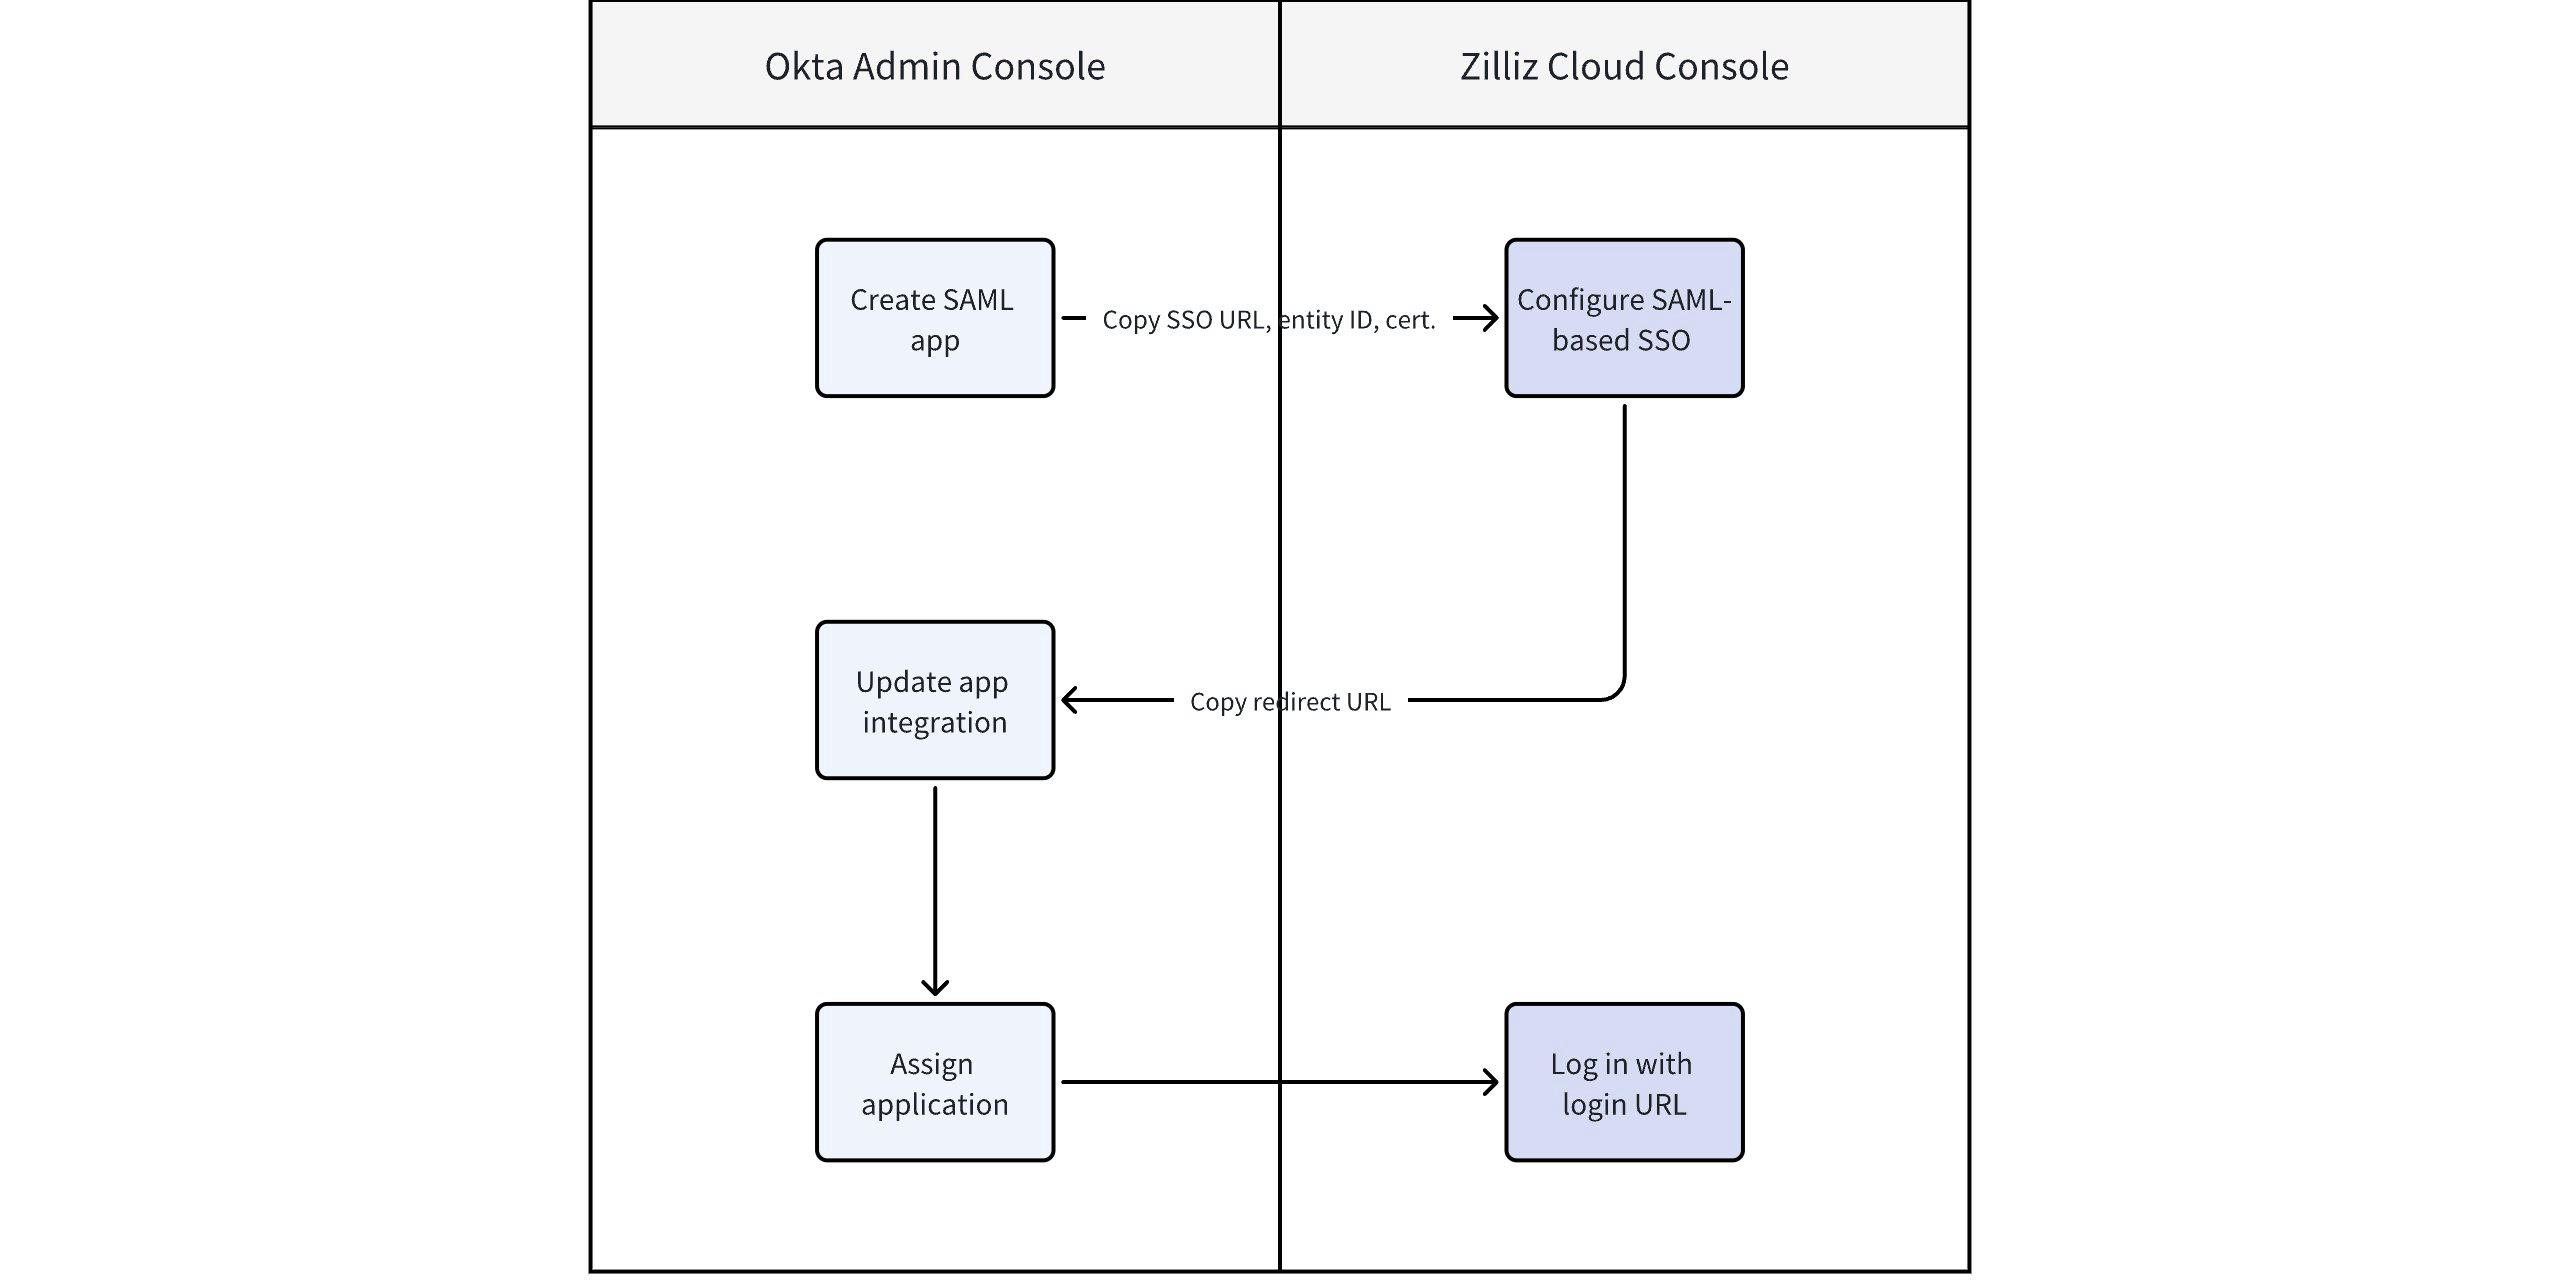
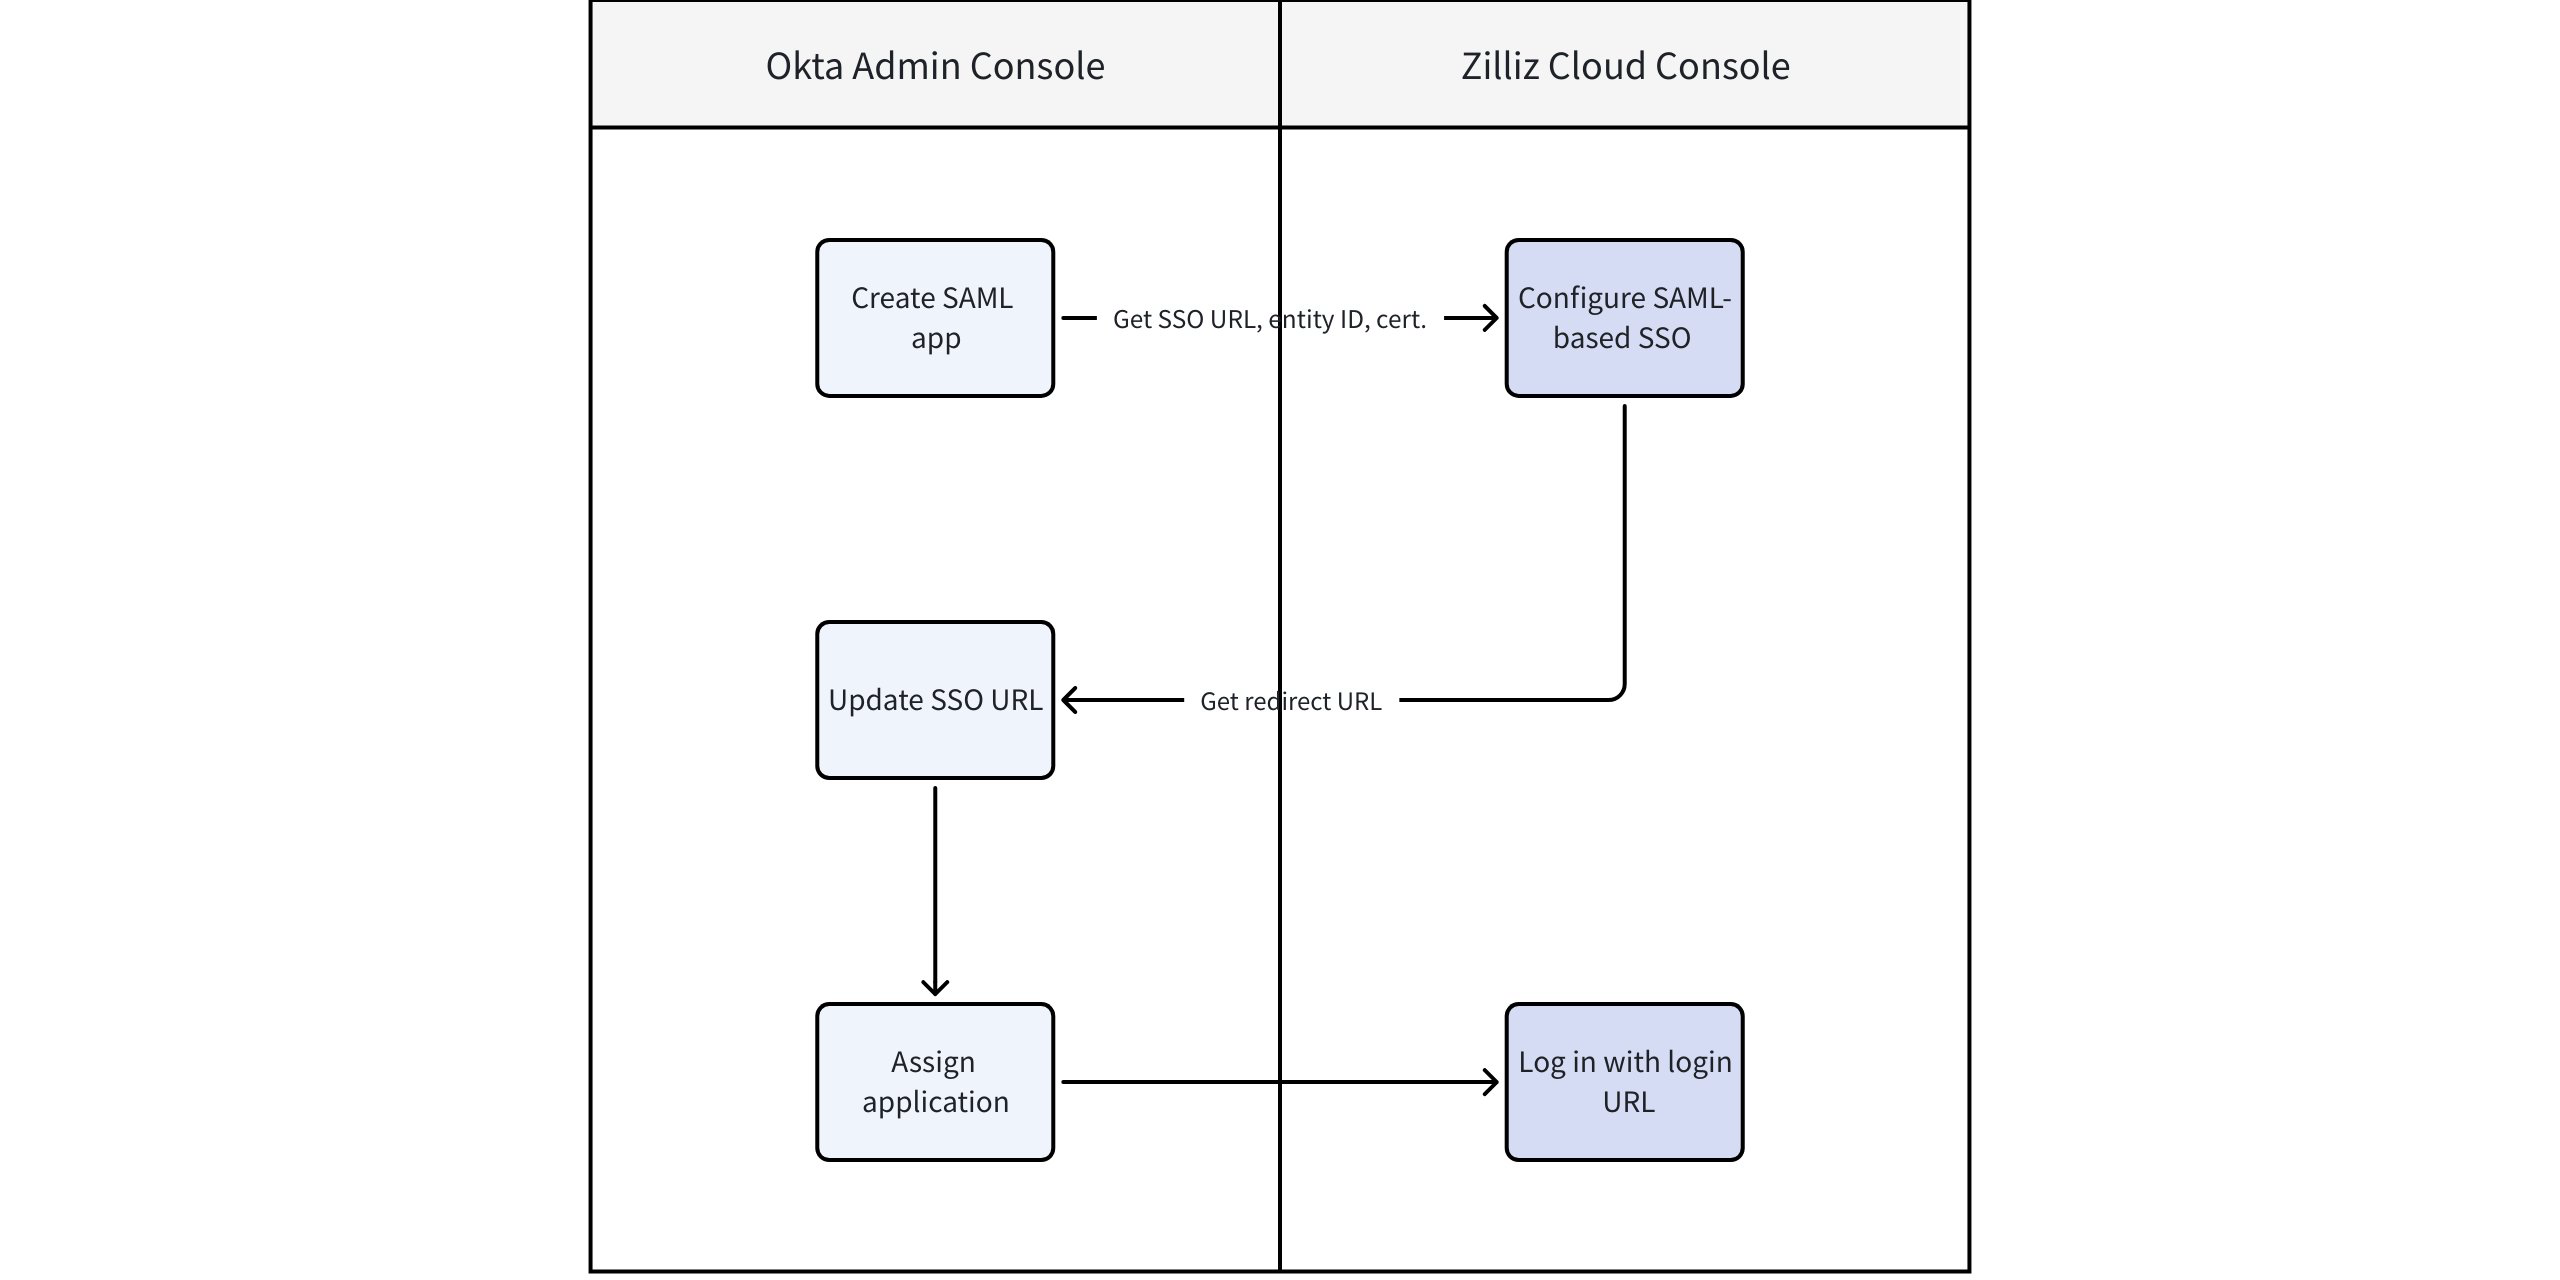
update docs

diff --git a/docs/tutorials/security/authentication/single-sign-on/saml-2-0/single-sign-on-with-okta.md b/docs/tutorials/security/authentication/single-sign-on/saml-2-0/single-sign-on-with-okta.md
@@ -14,15 +14,17 @@ keywords:
   - cloud
   - sso
   - okta
-  - LLMs
-  - Machine Learning
-  - RAG
-  - NLP
+  - vector search algorithms
+  - Question answering system
+  - llm-as-a-judge
+  - hybrid vector search
 
 ---
 
 import Admonition from '@theme/Admonition';
 
+
+import Supademo from '@site/src/components/Supademo';
 
 # Okta
 
@@ -44,7 +46,11 @@ Before you begin the SSO configuration, make sure the following conditions are m
 
 - You have Admin access to the Okta console. For more information, refer to [Okta official documentation](https://help.okta.com/en-us/content/topics/security/administrators-learn-about-admins.htm).
 
-## Step 1: Create SAML app integration in Okta{#step-1-create-saml-app-integration-in-okta}
+## Configuration steps{#configuration-steps}
+
+### Step 1: Create a SAML app in Okta console{#step-1-create-a-saml-app-in-okta-console}
+
+<Supademo id="cmdh3bndv2ym06n9n9gx8epyd" title="Step 1: Create SAML App in Okta Console" />
 
 1. Log in to the [Okta Admin console](https://login.okta.com/).
 
@@ -54,25 +60,37 @@ Before you begin the SSO configuration, make sure the following conditions are m
 
 1. In the **Create a new app integration** dialog box, select **SAML 2.0** and click **Next**.
 
-1. Set a custom app name and click **Next**.
+1. For simplicity, set **App name** to **zilliz**, then click **Next**.
 
-1. In the **Configure SAML** step, you'll need to provide some information.
+1. In the **General** area of the **Configure SAML** step, configure the fields below:
 
-    - **Single Sign On URL**: **https://cloud.zilliz.com/sso/saml/acs** (For now, use a placeholder value. You'll update this later.)
+    - **Single Sign On URL**: 
 
-    - **Audience Restriction**: Set the value to **zilliz**.
+        - Enter a temporary placeholder URL, such as `http://www.okta.com`. You will replace this with the actual URL from the Zilliz Cloud console later in [Step 2](./single-sign-on-with-okta#step-2-configure-okta-settings-in-zilliz-cloud-console).
 
-1. Click **Next**, review your settings, then click **Finish**. You will be redirected to the application page.
+        - Be sure to **check the box** labeled **"Use this for Recipient URL and Destination URL"** to ensure correct routing during SAML requests.
 
-    ![sso-2-1](/img/sso-2-1.png)
+    - **Audience URI (SP Entity ID)**: Set the value to **zilliz**.
 
-1. In the **SAML 2.0** card of the **Sign On** tab, click **More details**. Then, copy the following credentials and certificate: **Sign on URL**, **Issuer**, and **Signing Certificate**. This will be required for setting up your IdP in the Zilliz Cloud console.
+1. In the **Attribute Statements (optional)** area, specify:
 
-    For more information about Okta settings, refer to [Okta official documentation](https://help.okta.com/en-us/content/topics/apps/apps_app_integration_wizard_saml.htm).
+    - **Name**: Set the value to **email**.
 
-    ![sso-2-2](/img/sso-2-2.png)
+    - **Value**: Select **user.email** from the drop-down list.
 
-## Step 2: Configure SAML SSO on Zilliz Cloud{#step-2-configure-saml-sso-on-zilliz-cloud}
+1. Click **Next**, then click **Finish**. You will be redirected to the app page.
+
+1. On the **Sign On** tab of the app page, click **More details** to get the following app details:
+
+    - **Sign on URL**: Copy the URL. It will be required in Zilliz Cloud console in [Step 2](./single-sign-on-with-okta#step-2-configure-okta-settings-in-zilliz-cloud-console).
+
+    - **Signing Certificate**: Click **Download** to save the certificate to your local computer. It will be required in Zilliz Cloud console in [Step 2](./single-sign-on-with-okta#step-2-configure-okta-settings-in-zilliz-cloud-console).
+
+Then, proceed to [Step 2](./single-sign-on-with-okta#step-2-configure-okta-settings-in-zilliz-cloud-console) to continue SSO settings in Zilliz Cloud console.
+
+### Step 2: Configure Okta settings in Zilliz Cloud console{#step-2-configure-okta-settings-in-zilliz-cloud-console}
+
+<Supademo id="cmdh2wk6b2y8q6n9nilbi2d19" title="Step 2: Configure Okta Settings in Zilliz Cloud Console" />
 
 1. Log in to the [Zilliz Cloud console](https://cloud.zilliz.com/login) and go to the organization for which you want to configure SSO.
 
@@ -80,74 +98,100 @@ Before you begin the SSO configuration, make sure the following conditions are m
 
 1. On the **Settings** page, find the **Single Sign-On (SSO)** section and click **Configure**.
 
-1. In the **Configure Single Sign-On (SSO)** dialog, you will see two options - **SAML 2.0** and **Okta Workforce**. For this guide, select **SAML 2.0** to proceed with the SAML 2.0 integration.
+1. In the **Single Sign-On (SSO)** dialog box, select **SAML 2.0**, then configure the settings below:
 
-1. In the **Configure Single Sign-On (SSO)** step, enter the IdP settings using the credentials and certificate obtained from Okta in [Step 1](./single-sign-on-with-okta).
+    - **Single Sign-On URL**: Paste the **Sign on URL** value copied from [Okta console](https://login.okta.com/) in [Step 1](./single-sign-on-with-okta#step-1-create-a-saml-app-in-okta-console). This URL receives the SAML authentication requests from Okta.
 
-    - **Single Sign-On URL**: Paste the **Sign on URL** value obtained from Okta into this field. This URL receives the SAML authentication requests from Okta.
+    - **Entity ID**: Set the value to **zilliz**.
 
-    - **Entity ID**: Paste the **Issuer** value obtained from Okta into this field. This identifier is used to distinguish the issuer of SAML requests, responses, or assertions,  ensuring that messages from Okta are correctly recognized and accepted by Zilliz Cloud.
+    - **Certificate**: Open the certificate file downloaded in [Step 1](./single-sign-on-with-okta#step-1-create-a-saml-app-in-okta-console) on your computer. Copy the entire certificate content, including the lines beginning with `-----BEGIN CERTIFICATE-----` and ending with `-----END CERTIFICATE-----`, and paste it into the field provided.
 
-    - **Certificate**: Paste the **Signing Certificate** value obtained from Okta into this field. This public key certificate is used to verify the digital signatures of SAML assertions, enabling Zilliz Cloud to authenticate the source of the SAML data securely.
+1. Click **Save**.
 
-1. Click **Save** to proceed.
+1. In the dialog box that appears, copy the redirect URL. It will be required in [Okta console](https://login.okta.com/) in [Step 3](./single-sign-on-with-okta#step-3-update-sso-url-in-okta-console). You will also see a Zilliz Cloud login URL, which will be used for SSO login once all setup settings are complete.
 
-![sso-saml-1](/img/sso-saml-1.png)
+### Step 3: Update SSO URL in Okta console{#step-3-update-sso-url-in-okta-console}
 
-## Step 3: Update Okta app integration{#step-3-update-okta-app-integration}
+<Supademo id="cmdh69qhu32886n9niy61fz4y" title="Step 3: Update SSO URL in Okta Console" />
 
-After saving the Okta integration details on Zilliz Cloud, you'll be provided with a redirect URL:
+After saving the Okta app details in Zilliz Cloud, you are provided with a redirect URL:
 
-1. Copy the provided redirect URL from the Zilliz Cloud console.
+1. Return to the [Okta console](https://login.okta.com/) and navigate to the SAML app you created.
 
-1. Return to the Okta Admin console and navigate to the Zilliz Cloud application you created.
+1. Update the SAML settings by replacing the placeholder **Single Sign On URL** (set in [Step 1](./single-sign-on-with-okta#step-1-create-a-saml-app-in-okta-console)) with the redirect URL you copied from Zilliz Cloud.
 
-1. Edit the SAML settings and update the following fields with the redirect URL you copied from Zilliz Cloud: 
+1. Save the changes.
 
-    - **Single Sign On URL**
+## Post-configuration tasks{#post-configuration-tasks}
 
-    - **Destination URL**
+### Task 1: Assign SAML app to users (Okta console){#task-1-assign-saml-app-to-users-okta-console}
 
-1. Save the changes in the Okta Admin Console.
-
-1. Go back to the Zilliz Cloud console and confirm that you've added the redirect URL in Okta.
-
-You will also see a Zilliz Cloud login URL. Save this URL as it will be used for SSO login once the setup is complete.
-
-![sso-3](/img/sso-3.png)
-
-## Step 4: Assign Okta application to users{#step-4-assign-okta-application-to-users}
+<Supademo id="cmdh6fi1g32hv6n9nea0dz3e4" title="Step 4: Assign SAML App to Users" />
 
 Before users can access Zilliz Cloud through SSO, you need to assign the Okta application to them:
 
-1. In the [Okta Admin console](https://login.okta.com/), go to **Directory** > **People**.
+1. In the [Okta Admin console](https://login.okta.com/), click **Assignments**.
 
-1. Select a user and go to the **Applications** tab.
+1. Choose **Assign** > **Assign to People**.
 
-1. Click **Assign Applications** and find the Zilliz Cloud application.
+1. Assign the SAML app to the user and save the changes.
 
-1. Assign the application to the user and save the changes.
+1. Click **Save** and **Go Back**.
 
-Repeat this process for all users who need SSO access to Zilliz Cloud. For more information, refer to [Okta official documentation](https://help.okta.com/oie/en-us/content/topics/provisioning/lcm/lcm-assign-app-groups.htm).
+Repeat for all users as needed. See [Okta documentation](https://help.okta.com/oie/en-us/content/topics/provisioning/lcm/lcm-assign-app-groups.htm) for more.
 
-![sso-4](/img/sso-4.png)
+### Task 2: Log in with SSO URL (end users){#task-2-log-in-with-sso-url-end-users}
 
-## Test configuration{#test-configuration}
+ <Supademo id="cmdhgrwuz3d6w6n9nqwfifmd2" title="Step 5: Log into Zilliz Cloud with SSO URL" />
 
-To ensure your SSO setup is functional:
+Users that have been assigned the SAML app can access Zilliz Cloud console using the SSO login URL provided by Zilliz Cloud:
 
 1. Open a new browser window and navigate to the Zilliz Cloud SSO login URL provided earlier.
 
 1. You should be redirected to the Okta login page.
 
-1. Log in using the credentials of a user who has been assigned the Zilliz Cloud application in Okta.
+1. Log in using the credentials of a user who has been assigned the SAML app in Okta.
 
 1. If SSO is configured correctly, you will be redirected to the Zilliz Cloud console after successful authentication.
 
-<Admonition type="info" icon="📘" title="Notes">
+If you encounter any issues during the setup or testing process, contact [Zilliz support](https://zilliz.com/contact-sales).
 
-<p>By default, users logging in via SSO are granted the Organization Member role. To expand their permissions, you can modify their roles in the Zilliz Cloud console.</p>
+## FAQ{#faq}
 
-</Admonition>
+### What role is assigned to users who log in via SSO for the first time?{#what-role-is-assigned-to-users-who-log-in-via-sso-for-the-first-time}
 
-If you encounter any issues during the setup or testing process, please contact Zilliz support for assistance.
+New users who do not already have a Zilliz Cloud account will be automatically created upon their first SSO login. These users are assigned the **Organization Member** role by default. You can modify their roles later in the Zilliz Cloud console.
+
+### How do users access projects after SSO login?{#how-do-users-access-projects-after-sso-login}
+
+After logging in via SSO, users will have **Organization Member** role by default. To access specific projects, an **Organization Owner** or **Project Admin** must invite them to projects. For detailed steps, see [Manage Project Users](./project-users).
+
+### What happens if a user already has a Zilliz Cloud account before logging in with SSO?{#what-happens-if-a-user-already-has-a-zilliz-cloud-account-before-logging-in-with-sso}
+
+If the user already exists in your Zilliz Cloud organization (based on their email), they will retain their original role and permissions when logging in via SSO. The system matches users by email address and does not overwrite existing accounts.
+
+### I'm having issues with SSO configuration or users can't log in. What should I check?{#im-having-issues-with-sso-configuration-or-users-cant-log-in-what-should-i-check}
+
+If you encounter configuration errors or login issues, verify the following:
+
+- **Certificate format:** Ensure the certificate includes complete BEGIN and END lines:
+
+    ```plaintext
+    -----BEGIN CERTIFICATE-----
+    (certificate body)
+    -----END CERTIFICATE-----
+    ```
+
+- **Single Sign-On URL:** Verify the **Sign on URL** from Okta is correctly pasted.
+
+- **Entity ID:** Confirm it's set to `zilliz` in both Okta and Zilliz Cloud.
+
+- **Attribute Statements:** Ensure email mapping is configured (`Name = email`, `Value = user.email`).
+
+- **User Assignment:** The user is assigned the SAML app in Okta.
+
+- **Email Matching:** The email in Okta matches the email in Zilliz Cloud.
+
+### Can I configure multiple SSO providers for the same organization?{#can-i-configure-multiple-sso-providers-for-the-same-organization}
+
+Currently, each Zilliz Cloud organization supports only **one active SAML SSO configuration** at a time.
